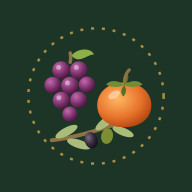
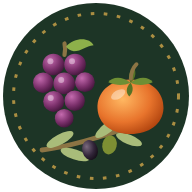
Uygulama (PWA): kurulabilir site, çevrimdışı görüntüleme, uygulama simgeleri
- sw.js servis çalışanı ve offline.html
- Logo ile üretilmiş uygulama simgeleri (maskable, Apple)
- Manifest: kısayollar, kimlik, kategori
- Android'de 'Uygulamayı kur' butonu, iPhone için ana ekrana ekleme adımları

Claude-Session: https://claude.ai/code/session_01PyP1Z25kvhBqTB4b3qFCRy

diff --git a/index.html b/index.html
@@ -17,7 +17,11 @@
 <meta property="og:url" content="https://kavakliderem.com/">
 <meta property="og:image" content="https://kavakliderem.com/assets/icon-512.png">
 <link rel="icon" href="assets/icon.svg" type="image/svg+xml">
-<link rel="apple-touch-icon" href="assets/icon-192.png">
+<link rel="apple-touch-icon" href="assets/apple-touch-icon.png">
+<meta name="apple-mobile-web-app-capable" content="yes">
+<meta name="mobile-web-app-capable" content="yes">
+<meta name="apple-mobile-web-app-title" content="Kavaklıdere">
+<meta name="apple-mobile-web-app-status-bar-style" content="default">
 <link rel="manifest" href="manifest.webmanifest">
 <link rel="preconnect" href="https://fonts.googleapis.com">
 <link rel="preconnect" href="https://fonts.gstatic.com" crossorigin>
@@ -187,6 +191,23 @@
         <a class="card svc" href="#hizmetler"><span class="ic"><svg class="ico" viewBox="0 0 24 24" aria-hidden="true"><path fill="none" stroke="currentColor" stroke-width="2" stroke-linejoin="round" d="M5 4h4l2 5-2.5 1.5a11 11 0 0 0 5 5L15 13l5 2v4a2 2 0 0 1-2 2A16 16 0 0 1 3 6a2 2 0 0 1 2-2z"/></svg></span><h3>Önemli telefonlar</h3><p>Acil çağrı, arıza hatları, okul ve sağlık hizmetleri.</p></a>
         <a class="card svc" id="svcWa" href="#" target="_blank" rel="noopener"><span class="ic"><svg class="ico" viewBox="0 0 24 24" aria-hidden="true"><path fill="none" stroke="currentColor" stroke-width="2" stroke-linejoin="round" d="M4 20l1.3-3.9A8 8 0 1 1 8 19.1L4 20z"/></svg></span><h3>Muhtara yazın</h3><p id="svcWaText">WhatsApp üzerinden doğrudan muhtarımıza ulaşın.</p></a>
         <a class="card svc" id="svcTeknik" href="#" target="_blank" rel="noopener"><span class="ic" style="background:#E3F3EA;color:#1F8F4E"><svg class="ico" viewBox="0 0 24 24" aria-hidden="true"><path fill="currentColor" fill-rule="evenodd" d="M12 3a9 9 0 0 0-7.8 13.5L3 21l4.6-1.2A9 9 0 1 0 12 3zm-3 5.5c-.2 0-.5.1-.7.3-.5.5-.8 1.1-.8 1.8 0 1.6 1.2 3.2 3 4.6 1.4 1 2.7 1.5 3.6 1.5.8 0 1.5-.4 1.9-1l.2-.6c0-.2-.1-.3-.3-.4l-1.6-.8c-.2-.1-.4 0-.5.1l-.6.8c-.1.1-.3.2-.5.1a5.6 5.6 0 0 1-2.6-2.4c-.1-.2 0-.3.1-.4l.5-.6c.1-.2.1-.4 0-.5l-.7-1.6c-.1-.3-.3-.4-.5-.4z"/></svg></span><h3 id="svcTeknikAd">Teknik destek</h3><p>Site ile ilgili teknik sorular için WhatsApp'tan yazın.</p></a>
+      </div>
+    </section>
+
+    <section class="card app-kur" id="appKur" aria-labelledby="h-app" hidden>
+      <img src="assets/icon-192.png" width="64" height="64" alt="">
+      <div class="ak-bd">
+        <h2 id="h-app">Kavaklıdere uygulamasını telefonuna kur</h2>
+        <p class="muted" id="akMetin">Duyurulara tek dokunuşla ulaş. Uygulama ana ekranına eklenir, mağaza gerekmez.</p>
+        <ol class="ak-ios" id="akIos" hidden>
+          <li>Safari'de alttaki <b>Paylaş</b> simgesine dokun <span aria-hidden="true">(□↑)</span></li>
+          <li><b>Ana Ekrana Ekle</b>'yi seç</li>
+          <li>Sağ üstte <b>Ekle</b>'ye dokun</li>
+        </ol>
+      </div>
+      <div class="ak-act">
+        <button type="button" class="btn" id="akBtn">Uygulamayı kur</button>
+        <button type="button" class="btn ghost" id="akKapat">Şimdi değil</button>
       </div>
     </section>
 

diff --git a/assets/app.js b/assets/app.js
@@ -371,6 +371,34 @@
   $("#muhtarKartWa").href = waLink("Merhaba Muhtarım, "); $("#muhtarKartNo").textContent = M.whatsappGoster || "";
   $("#svcWa").href = waLink("Merhaba Muhtarım, ");
   $("#svcWaText").textContent = "WhatsApp üzerinden muhtarımız " + (M.muhtar || "") + "'a ulaşın.";
+  /* ---------- Uygulama (PWA): kurulum ve servis çalışanı ---------- */
+  (function () {
+    if ("serviceWorker" in navigator && (location.protocol === "https:" || location.hostname === "localhost")) {
+      navigator.serviceWorker.register("/sw.js").catch(function () {});
+    }
+    var box = $("#appKur"); if (!box) return;
+    var standalone = (window.matchMedia && matchMedia("(display-mode: standalone)").matches) || navigator.standalone;
+    if (standalone || store.get("appKurKapali")) return;
+    var ua = navigator.userAgent || "";
+    var ios = /iPhone|iPad|iPod/.test(ua) || (navigator.platform === "MacIntel" && navigator.maxTouchPoints > 1);
+    var deferred = null;
+    $("#akKapat").addEventListener("click", function () { box.hidden = true; store.set("appKurKapali", "1"); });
+    if (ios) {
+      box.hidden = false; $("#akBtn").hidden = true; $("#akIos").hidden = false;
+      $("#akMetin").textContent = "iPhone'da uygulama Safari üzerinden ana ekrana eklenir:";
+      return;
+    }
+    window.addEventListener("beforeinstallprompt", function (e) {
+      e.preventDefault(); deferred = e; box.hidden = false;
+    });
+    $("#akBtn").addEventListener("click", function () {
+      if (!deferred) return;
+      deferred.prompt();
+      deferred.userChoice.then(function (r) { if (r.outcome === "accepted") box.hidden = true; deferred = null; });
+    });
+    window.addEventListener("appinstalled", function () { box.hidden = true; });
+  })();
+
   /* ---------- Teknik destek ---------- */
   (function () {
     var T = D.teknik; if (!T) return;

diff --git a/sw.js b/sw.js
@@ -1,0 +1,28 @@
+/* Kavaklıdere – servis çalışanı: hızlı açılış ve çevrimdışı görüntüleme
+   HTML ve veri: önce internet, olmazsa önbellek (duyurular hep güncel kalır)
+   Tasarım dosyaları: önbellekten anında, arka planda yenilenir */
+const SURUM = "kvk-v1";
+const TEMEL = ["/", "/index.html", "/assets/site.css", "/assets/app.js", "/data/veri.js",
+  "/manifest.webmanifest", "/assets/icon-192.png", "/assets/muhtar.jpg", "/assets/muhtar-kare.jpg", "/offline.html"];
+
+self.addEventListener("install", e => {
+  e.waitUntil(caches.open(SURUM).then(c => c.addAll(TEMEL)).then(() => self.skipWaiting()));
+});
+self.addEventListener("activate", e => {
+  e.waitUntil(caches.keys().then(ks => Promise.all(ks.filter(k => k !== SURUM).map(k => caches.delete(k))))
+    .then(() => self.clients.claim()));
+});
+self.addEventListener("fetch", e => {
+  const r = e.request, u = new URL(r.url);
+  if (r.method !== "GET" || u.origin !== location.origin) return; // dış servisler (hava, video, sayaç) dokunulmaz
+  const agFirst = r.mode === "navigate" || u.pathname.startsWith("/data/") || u.pathname.endsWith(".html");
+  if (agFirst) {
+    e.respondWith(fetch(r).then(res => { const k = res.clone(); caches.open(SURUM).then(c => c.put(r, k)); return res; })
+      .catch(() => caches.match(r).then(m => m || (r.mode === "navigate" ? caches.match("/") .then(x => x || caches.match("/offline.html")) : Response.error()))));
+  } else {
+    e.respondWith(caches.match(r).then(m => {
+      const net = fetch(r).then(res => { if (res.ok) { const k = res.clone(); caches.open(SURUM).then(c => c.put(r, k)); } return res; }).catch(() => m);
+      return m || net;
+    }));
+  }
+});

diff --git a/assets/site.css b/assets/site.css
@@ -326,6 +326,15 @@ table.cal tr.cur td{background:var(--amber-soft)}
   .mc-act{justify-content:center}
 }
 
+/* ---------- Uygulama kurulumu ---------- */
+.app-kur{display:grid;grid-template-columns:auto minmax(0,1fr) auto;gap:18px;align-items:center;margin-bottom:16px;border-color:var(--green)}
+.app-kur img{width:64px;height:64px;border-radius:16px}
+.app-kur h2{font-family:var(--body);font-size:18px;font-weight:700}
+.app-kur p{margin:4px 0 0}
+.ak-ios{margin:8px 0 0;padding-left:20px;display:grid;gap:4px;font-size:15px}
+.ak-act{display:flex;gap:8px;flex-wrap:wrap}
+@media (max-width:700px){.app-kur{grid-template-columns:auto minmax(0,1fr)}.ak-act{grid-column:1/-1}}
+
 /* ---------- Ziyaretçi sayacı ---------- */
 .counter{display:grid;grid-template-columns:repeat(auto-fit,minmax(180px,1fr));gap:1px;background:var(--line);border:1px solid var(--line);border-radius:var(--radius);overflow:hidden;margin-bottom:8px}
 .cnt{background:var(--surface);padding:18px 22px;display:grid;gap:4px}

diff --git a/offline.html b/offline.html
@@ -1,0 +1,7 @@
+<!doctype html>
+<html lang="tr"><head><meta charset="utf-8"><meta name="viewport" content="width=device-width,initial-scale=1">
+<title>Çevrimdışı – Kavaklıdere</title><meta name="robots" content="noindex">
+<style>body{margin:0;font-family:system-ui,sans-serif;background:#F5F8F2;color:#17261B;display:grid;place-items:center;min-height:100vh;padding:24px;text-align:center}
+@media (prefers-color-scheme:dark){body{background:#0F1712;color:#E6EEE5}}h1{font-size:24px;margin:16px 0 8px}p{max-width:36ch;opacity:.8}img{width:96px;height:96px}</style></head>
+<body><div><img src="/assets/icon-192.png" alt=""><h1>İnternet bağlantısı yok</h1><p>Kavaklıdere sitesine şu an ulaşılamıyor. Bağlantınız gelince sayfa otomatik olarak yenilenecek.</p></div>
+<script>addEventListener("online",()=>location.reload())</script></body></html>

diff --git a/README.md b/README.md
@@ -6,3 +6,7 @@ Alaşehir / Manisa – dijital mahalle portalı: https://kavakliderem.com
 - Tasarım: `assets/site.css`, kod: `assets/app.js`
 - Yenileme planı: `docs/YENILEME-PLANI.md`
 - Eski sürümün yedeği: `yedek-2026-10-15` dalı
+
+## Uygulama (PWA)
+- `sw.js`: servis çalışanı. Tasarım/kod dosyaları (assets/) değişince `SURUM` değerini artırın (kvk-v2, kvk-v3…), yoksa bazı telefonlar eski sürümü bir ziyaret daha gösterir.
+- `data/veri.js` her zaman önce internetten yüklenir.
